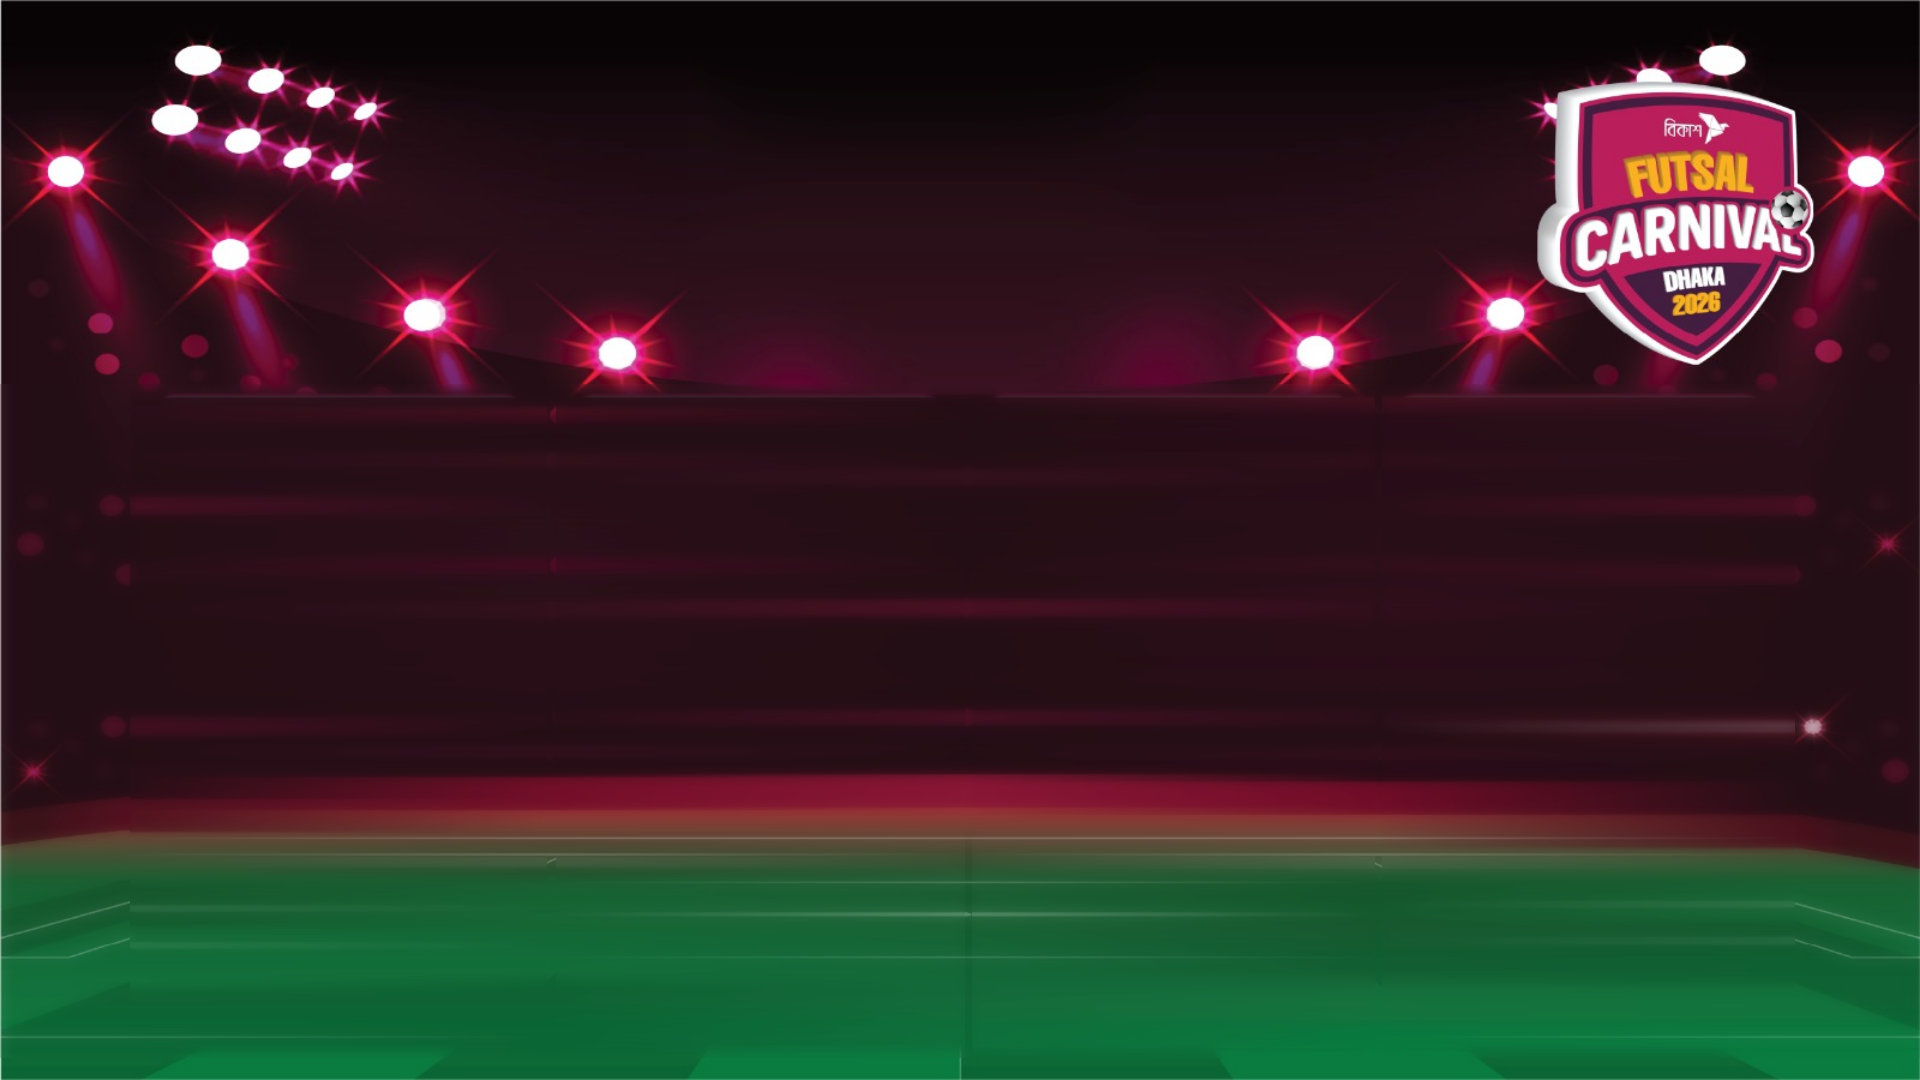
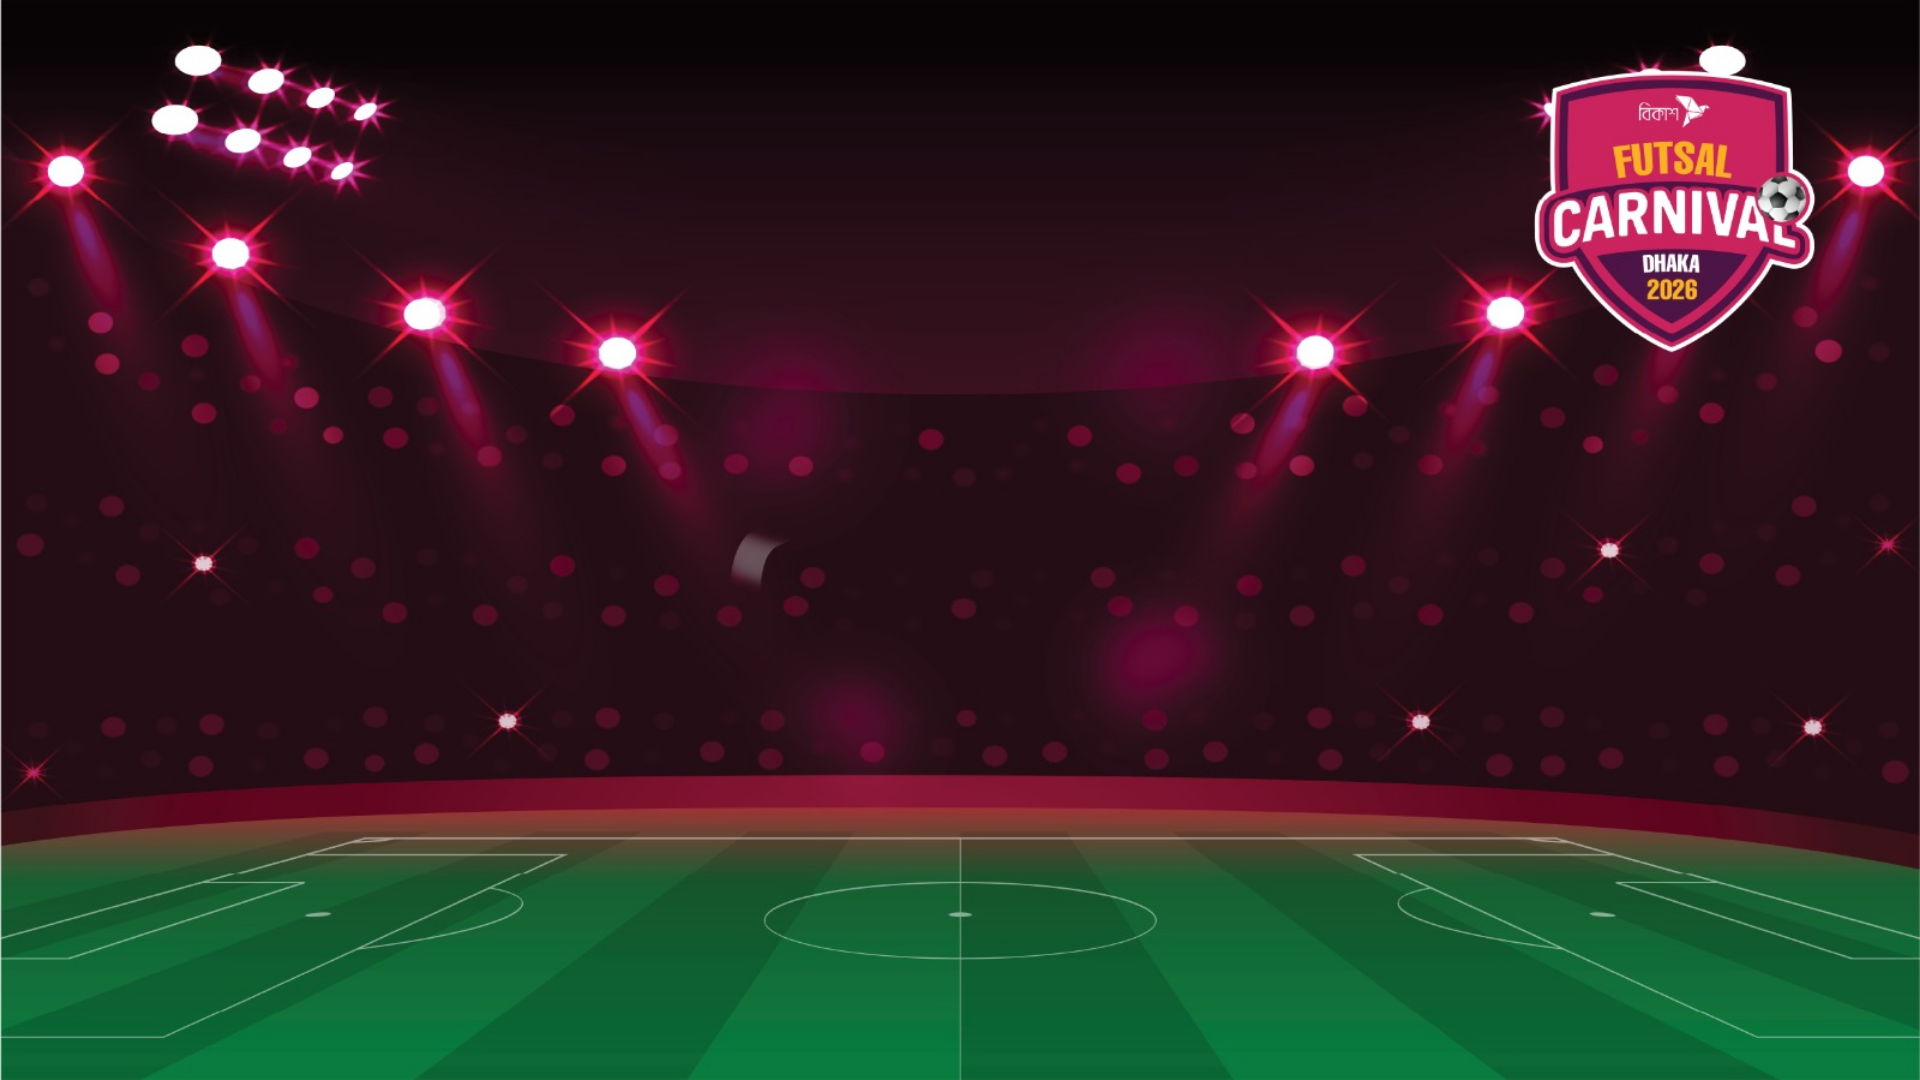
Use the supplied clean plate, stop tinting uploads, drop the grid clear
Background
  Replaced the hand-inpainted plate with "full draw.jpeg", the clean
  artwork from the designer. No painted-out cards, no reconstructed
  pixels -- the real thing, resized to 1920x1080.

  An uploaded background is now shown exactly as supplied. The dark
  scrim that used to sit over it is gone from all three screens and
  from all three canvas exports; it still applies to the built-in
  artwork, which needs it.

Layout
  The shield in the new plate reaches y=358 and the card grid started
  at 324, so the cards clipped the bottom of it. Grid moved to 376,
  which also gives the separation under the logo that was asked for.

  grid top 324 -> 376, height 724 -> 688, row gap 16 -> 12
  card height 169 -> 163, bottom margin 16

  The uploaded-logo box was moved onto the shield's exact footprint
  (1542,58 264x300) so a custom logo replaces it cleanly instead of
  sitting beside it.

Verified by rendering with a deliberately bright uploaded background
and an edge-to-edge logo: colours come through untouched and the logo
is complete top to bottom.

diff --git a/js/export.js b/js/export.js
@@ -298,7 +298,7 @@
      over the same spot so it replaces it cleanly. */
   function drawTournamentMark(ctx, img, name) {
     if (img) {
-      drawContain(ctx, img, 1540, 26, 282, 306);
+      drawContain(ctx, img, 1542, 58, 264, 300);
       return;
     }
     if (Scene.hasPlate() && Scene.plateExportSafe()) return;   // shield is in the plate
@@ -336,10 +336,10 @@
      Geometry mirrors .db-grid / .db-card in css/draw-board.css
      ================================================================ */
   var BOARD_GEO = {
-    left: 64, top: 324, width: 1792, height: 724,
-    cols: 4, rows: 4, gapX: 26, gapY: 16,
-    pad: 5, stripH: 42, radius: 24, innerR: 19,
-    bodyPadX: 14, vsPx: 34, slotW: 138, slotH: 98
+    left: 64, top: 376, width: 1792, height: 688,
+    cols: 4, rows: 4, gapX: 26, gapY: 12,
+    pad: 5, stripH: 40, radius: 24, innerR: 19,
+    bodyPadX: 14, vsPx: 34, slotW: 138, slotH: 92
   };
 
   function cardSize() {
@@ -375,13 +375,8 @@
         /* ---------- background ---------- */
         var custom = imgs[b.boardBgKey];
         if (custom) {
+          /* an uploaded background goes in untouched */
           drawCover(ctx, custom, 0, 0, W, H);
-          var dim = ctx.createLinearGradient(0, 0, 0, H);
-          dim.addColorStop(0, 'rgba(5,1,8,.45)');
-          dim.addColorStop(0.45, 'rgba(5,1,8,.25)');
-          dim.addColorStop(1, 'rgba(5,1,8,.55)');
-          ctx.fillStyle = dim;
-          ctx.fillRect(0, 0, W, H);
         } else {
           Scene.paintScene(ctx, "board", true);
         }
@@ -433,7 +428,7 @@
     ctx.fillStyle = C.white;
     ctx.textAlign = 'center';
     ctx.textBaseline = 'middle';
-    ctx.font = '700 25px ' + BOARD;
+    ctx.font = '700 24px ' + BOARD;
     ctx.shadowColor = 'rgba(0,0,0,.22)';
     ctx.shadowBlur = 3;
     ctx.shadowOffsetY = 1;
@@ -518,13 +513,8 @@
         /* ---------- background ---------- */
         var custom = imgs[b.liveBgKey];
         if (custom) {
+          /* an uploaded background goes in untouched */
           drawCover(ctx, custom, 0, 0, W, H);
-          var dim = ctx.createLinearGradient(0, 0, 0, H);
-          dim.addColorStop(0, 'rgba(5,1,8,.70)');
-          dim.addColorStop(0.40, 'rgba(5,1,8,.40)');
-          dim.addColorStop(1, 'rgba(5,1,8,.78)');
-          ctx.fillStyle = dim;
-          ctx.fillRect(0, 0, W, H);
         } else {
           Scene.paintScene(ctx, "live", true);
         }
@@ -795,18 +785,13 @@
         /* ---------- background ---------- */
         var custom = imgs[b.boardBgKey];
         if (custom) {
+          /* an uploaded background goes in untouched */
           drawCover(ctx, custom, 0, 0, W, H);
-          var dim = ctx.createLinearGradient(0, 0, 0, H);
-          dim.addColorStop(0, 'rgba(5,1,8,.45)');
-          dim.addColorStop(0.45, 'rgba(5,1,8,.25)');
-          dim.addColorStop(1, 'rgba(5,1,8,.55)');
-          ctx.fillStyle = dim;
-          ctx.fillRect(0, 0, W, H);
         } else {
           Scene.paintScene(ctx, 'board', true);
         }
 
-        if (imgs[b.logoKey]) drawContain(ctx, imgs[b.logoKey], 1540, 26, 282, 306);
+        if (imgs[b.logoKey]) drawContain(ctx, imgs[b.logoKey], 1542, 58, 264, 300);
 
         /* ---------- round headings ---------- */
         BR.heads.forEach(function (hd) {

diff --git a/css/draw-board.css b/css/draw-board.css
@@ -70,10 +70,10 @@ body.presentation.show-cursor { cursor: default; }
    ===================================================================== */
 .db-tlogo {
   position: absolute;
-  top: 26px;
-  right: 98px;
-  width: 282px;
-  height: 306px;
+  top: 58px;
+  right: 114px;
+  width: 264px;
+  height: 300px;
   object-fit: contain;
   object-position: center;
   z-index: 7;
@@ -111,15 +111,15 @@ body.presentation.show-cursor { cursor: default; }
 .db-grid {
   position: absolute;
   left: 64px;
-  top: 324px;
+  top: 376px;
   width: 1792px;
-  height: 724px;
+  height: 688px;
   z-index: 5;
   display: grid;
   grid-template-columns: repeat(4, 1fr);
   grid-template-rows: repeat(4, 1fr);
   column-gap: 26px;
-  row-gap: 16px;
+  row-gap: 12px;
 }
 
 /* ------------------------------ card ------------------------------ */
@@ -147,14 +147,14 @@ body.presentation.show-cursor { cursor: default; }
 /* ------------------------------ pink header strip ------------------------------ */
 .db-strip {
   flex: none;
-  height: 42px;
+  height: 40px;
   display: grid;
   place-items: center;
   border-radius: 19px 19px 0 0;
   background: linear-gradient(180deg, #f33a8c 0%, #ee1d7a 55%, #e0156f 100%);
   font-family: var(--board);
-  font-size: 25px;
-  line-height: 29px;
+  font-size: 24px;
+  line-height: 28px;
   font-weight: 700;
   letter-spacing: .005em;
   color: #fff;
@@ -178,7 +178,7 @@ body.presentation.show-cursor { cursor: default; }
 .db-slot {
   position: relative;
   width: 138px;
-  height: 98px;
+  height: 92px;
   /* FLEX, not grid: the slot also holds an (often empty) initials span,
      and a grid would give that span its own row and split the spare
      height between the two -- which pushed every logo half a row above
@@ -196,7 +196,7 @@ body.presentation.show-cursor { cursor: default; }
      Capping both axes in px lets the logo scale down on its own and sit
      dead-centre in the slot. */
   max-width: 138px;
-  max-height: 98px;
+  max-height: 92px;
   width: auto;
   height: auto;
   object-fit: contain;           /* never distort a sponsor logo */

diff --git a/bracket.html b/bracket.html
@@ -25,28 +25,28 @@
     <!-- ---------- ROUND 1 : the 16 drawn matches ---------- -->
     <div class="br-head" id="headR1">
       <h2 id="titleR1">First Round</h2>
-      <p id="dateR1">Date: 21 Nov 2026</p>
+      <!-- <p id="dateR1">Date: 21 Nov 2026</p> -->
     </div>
     <div class="br-grid r1" id="gridR1"></div>
 
     <!-- ---------- ROUND 2 ---------- -->
     <div class="br-head" id="headR2">
       <h2>Second Round</h2>
-      <p id="dateR2">Date: 21 Nov 2026</p>
+      <!-- <p id="dateR2">Date: 21 Nov 2026</p> -->
     </div>
     <div class="br-grid r2" id="gridR2"></div>
 
     <!-- ---------- QUARTER FINAL ---------- -->
     <div class="br-head" id="headQF">
       <h2>Quarter Final</h2>
-      <p id="dateQF">Date: 21 Nov 2026</p>
+      <!-- <p id="dateQF">Date: 21 Nov 2026</p> -->
     </div>
     <div class="br-grid qf" id="gridQF"></div>
 
     <!-- ---------- SEMI FINAL ---------- -->
     <div class="br-head" id="headSF">
       <h2>Semi Final</h2>
-      <p id="dateSF">Date: 21 Nov 2026</p>
+      <!-- <p id="dateSF">Date: 21 Nov 2026</p> -->
     </div>
     <div class="br-grid sf" id="gridSF"></div>
 

diff --git a/live-result.html b/live-result.html
@@ -23,7 +23,7 @@
     <!-- ---------- header (matches the artwork) ---------- -->
     <div class="db-title">
       <h1 id="roundTitle">First Round</h1>
-      <p id="matchDate">Date: 21 Nov 2026</p>
+      <!-- <p id="matchDate">Date: 21 Nov 2026</p> -->
     </div>
 
     <img class="lr-tlogo hidden" id="tLogo" alt="">
@@ -31,7 +31,7 @@
 
     <!-- ---------- standby state ---------- -->
     <div class="lr-idle" id="idleBlock">
-      <h2>LOTTERY DRAW<br>WILL START SOON</h2>
+      <h2>DRAW<br>WILL START SOON</h2>
       <p>16 MATCHES &nbsp;·&nbsp; 32 TEAMS</p>
     </div>
 

diff --git a/js/bracket.js b/js/bracket.js
@@ -130,7 +130,8 @@
     if (bgUrl) {
       el.bgImage.src = bgUrl;
       el.bgImage.classList.remove('hidden');
-      el.bgDim.classList.remove('hidden');
+      /* shown exactly as uploaded -- no tint, no darkening */
+      el.bgDim.classList.add('hidden');
       el.sceneCanvas.classList.add('hidden');
     } else {
       el.bgImage.classList.add('hidden');

diff --git a/js/draw-board.js b/js/draw-board.js
@@ -99,7 +99,8 @@
     if (bgUrl) {
       el.bgImage.src = bgUrl;
       el.bgImage.classList.remove('hidden');
-      el.bgDim.classList.remove('hidden');
+      /* shown exactly as uploaded -- no tint, no darkening */
+      el.bgDim.classList.add('hidden');
       el.sceneCanvas.classList.add('hidden');
     } else {
       el.bgImage.classList.add('hidden');

diff --git a/js/live-result.js b/js/live-result.js
@@ -56,7 +56,8 @@
     if (bgUrl) {
       el.bgImage.src = bgUrl;
       el.bgImage.classList.remove('hidden');
-      el.bgDim.classList.remove('hidden');
+      /* shown exactly as uploaded -- no tint, no darkening */
+      el.bgDim.classList.add('hidden');
       el.sceneCanvas.classList.add('hidden');
     } else {
       el.bgImage.classList.add('hidden');

diff --git a/css/bracket.css b/css/bracket.css
@@ -24,8 +24,8 @@ body.presentation.show-cursor { cursor: default; }
 
 .br-tlogo {
   position: absolute;
-  top: 26px; right: 98px;
-  width: 282px; height: 306px;
+  top: 58px; right: 114px;
+  width: 264px; height: 300px;
   object-fit: contain; object-position: center;
   z-index: 7;
   filter: drop-shadow(0 8px 26px rgba(0, 0, 0, .6));

diff --git a/draw-board.html b/draw-board.html
@@ -24,7 +24,7 @@
     <!-- ---------- title block (matches the artwork) ---------- -->
     <div class="db-title">
       <h1 id="roundTitle">First Round</h1>
-      <p id="matchDate">Date: 21 Nov 2026</p>
+      <!-- <p id="matchDate">Date: 21 Nov 2026</p> -->
     </div>
 
     <!-- ---------- tournament logo: only when one was uploaded,

diff --git a/css/live-result.css b/css/live-result.css
@@ -63,10 +63,10 @@ body.presentation.show-cursor { cursor: default; }
 
 .lr-tlogo {
   position: absolute;
-  top: 26px;
-  right: 98px;
-  width: 282px;
-  height: 306px;
+  top: 58px;
+  right: 114px;
+  width: 264px;
+  height: 300px;
   object-fit: contain;
   object-position: center;
   z-index: 7;
